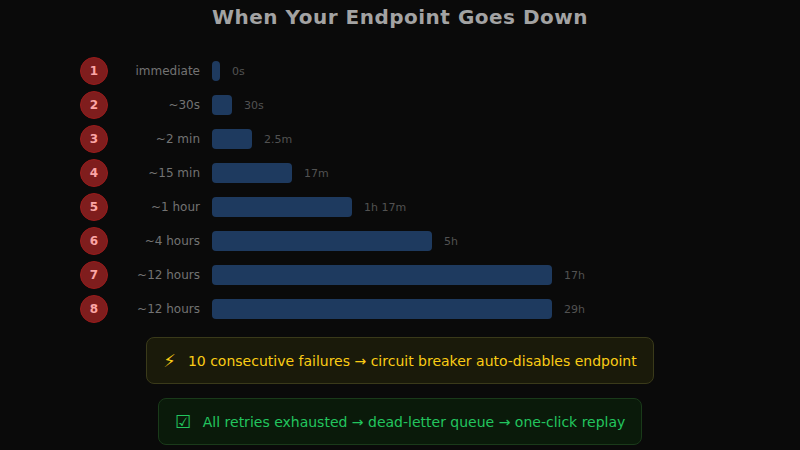
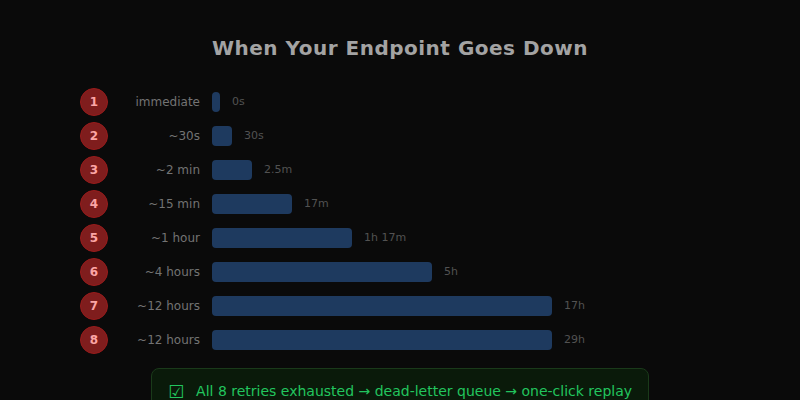
T-111: fix verify findings — date bug, Convoy pricing, circuit breaker image
- Fix critical: Monday date calc used "next Monday" (returns +7 days on
  Monday). Changed to "today 14:00" since cron runs on Monday.
- Fix Convoy pricing from $350 to $99/mo (matches landing site).
- Fix column header from "Free" to "Starts At" (Hookdeck $39 isn't free).
- Remove circuit breaker from retry timeline image (different concept —
  per-endpoint threshold vs per-message retries).
- Add explicit JSON parse failure logging in cron script.
- Update content rule: factual pricing comparisons naming competitors OK.

Changed region(s): [[0.0938, 0.09, 0.8125, 1.0], [0.25, 0.0, 0.75, 0.06], [0.1875, 0.66, 0.25, 0.72]]

diff --git a/docs/outreach/drafts/pricing-gap.html b/docs/outreach/drafts/pricing-gap.html
@@ -42,7 +42,7 @@
   <h2>Webhook Platform Pricing — First Paid Tier</h2>
   <table>
     <thead>
-      <tr><th>Provider</th><th>Free</th><th></th><th>First Paid</th></tr>
+      <tr><th>Provider</th><th>Starts At</th><th></th><th>Next Tier</th></tr>
     </thead>
     <tbody>
       <tr>
@@ -61,7 +61,7 @@
         <td>Convoy</td>
         <td class="free">$0</td>
         <td class="arrow">→</td>
-        <td class="expensive">$350/mo</td>
+        <td class="expensive">$99/mo</td>
       </tr>
       <tr class="gap-row">
         <td style="color: #3b82f6;">EmitHQ</td>

diff --git a/docs/outreach/drafts/failure-handling.html b/docs/outreach/drafts/failure-handling.html
@@ -115,13 +115,9 @@
       <div class="cumulative">29h</div>
     </div>
   </div>
-  <div class="outcome circuit">
-    <span class="icon">&#9889;</span>
-    10 consecutive failures &rarr; circuit breaker auto-disables endpoint
-  </div>
   <div class="outcome dlq">
     <span class="icon">&#9745;</span>
-    All retries exhausted &rarr; dead-letter queue &rarr; one-click replay
+    All 8 retries exhausted &rarr; dead-letter queue &rarr; one-click replay
   </div>
 </body>
 </html>

diff --git a/docs/outreach/content-calendar.md b/docs/outreach/content-calendar.md
@@ -21,7 +21,7 @@
 ## Content Rules
 
 - No self-promotion in the first 3 words. Lead with the insight, not the product.
-- Never disparage competitors by name in social posts. Blog posts can compare factually.
+- Never disparage competitors by name. Factual pricing comparisons that name competitors are OK — stating "$490/mo" is a fact, not an attack.
 - Every post should be useful even if the reader never visits emithq.com.
 - Code snippets > generic statements. Show the actual TypeScript.
 - No fabricated metrics. Only use real production numbers once they exist.
